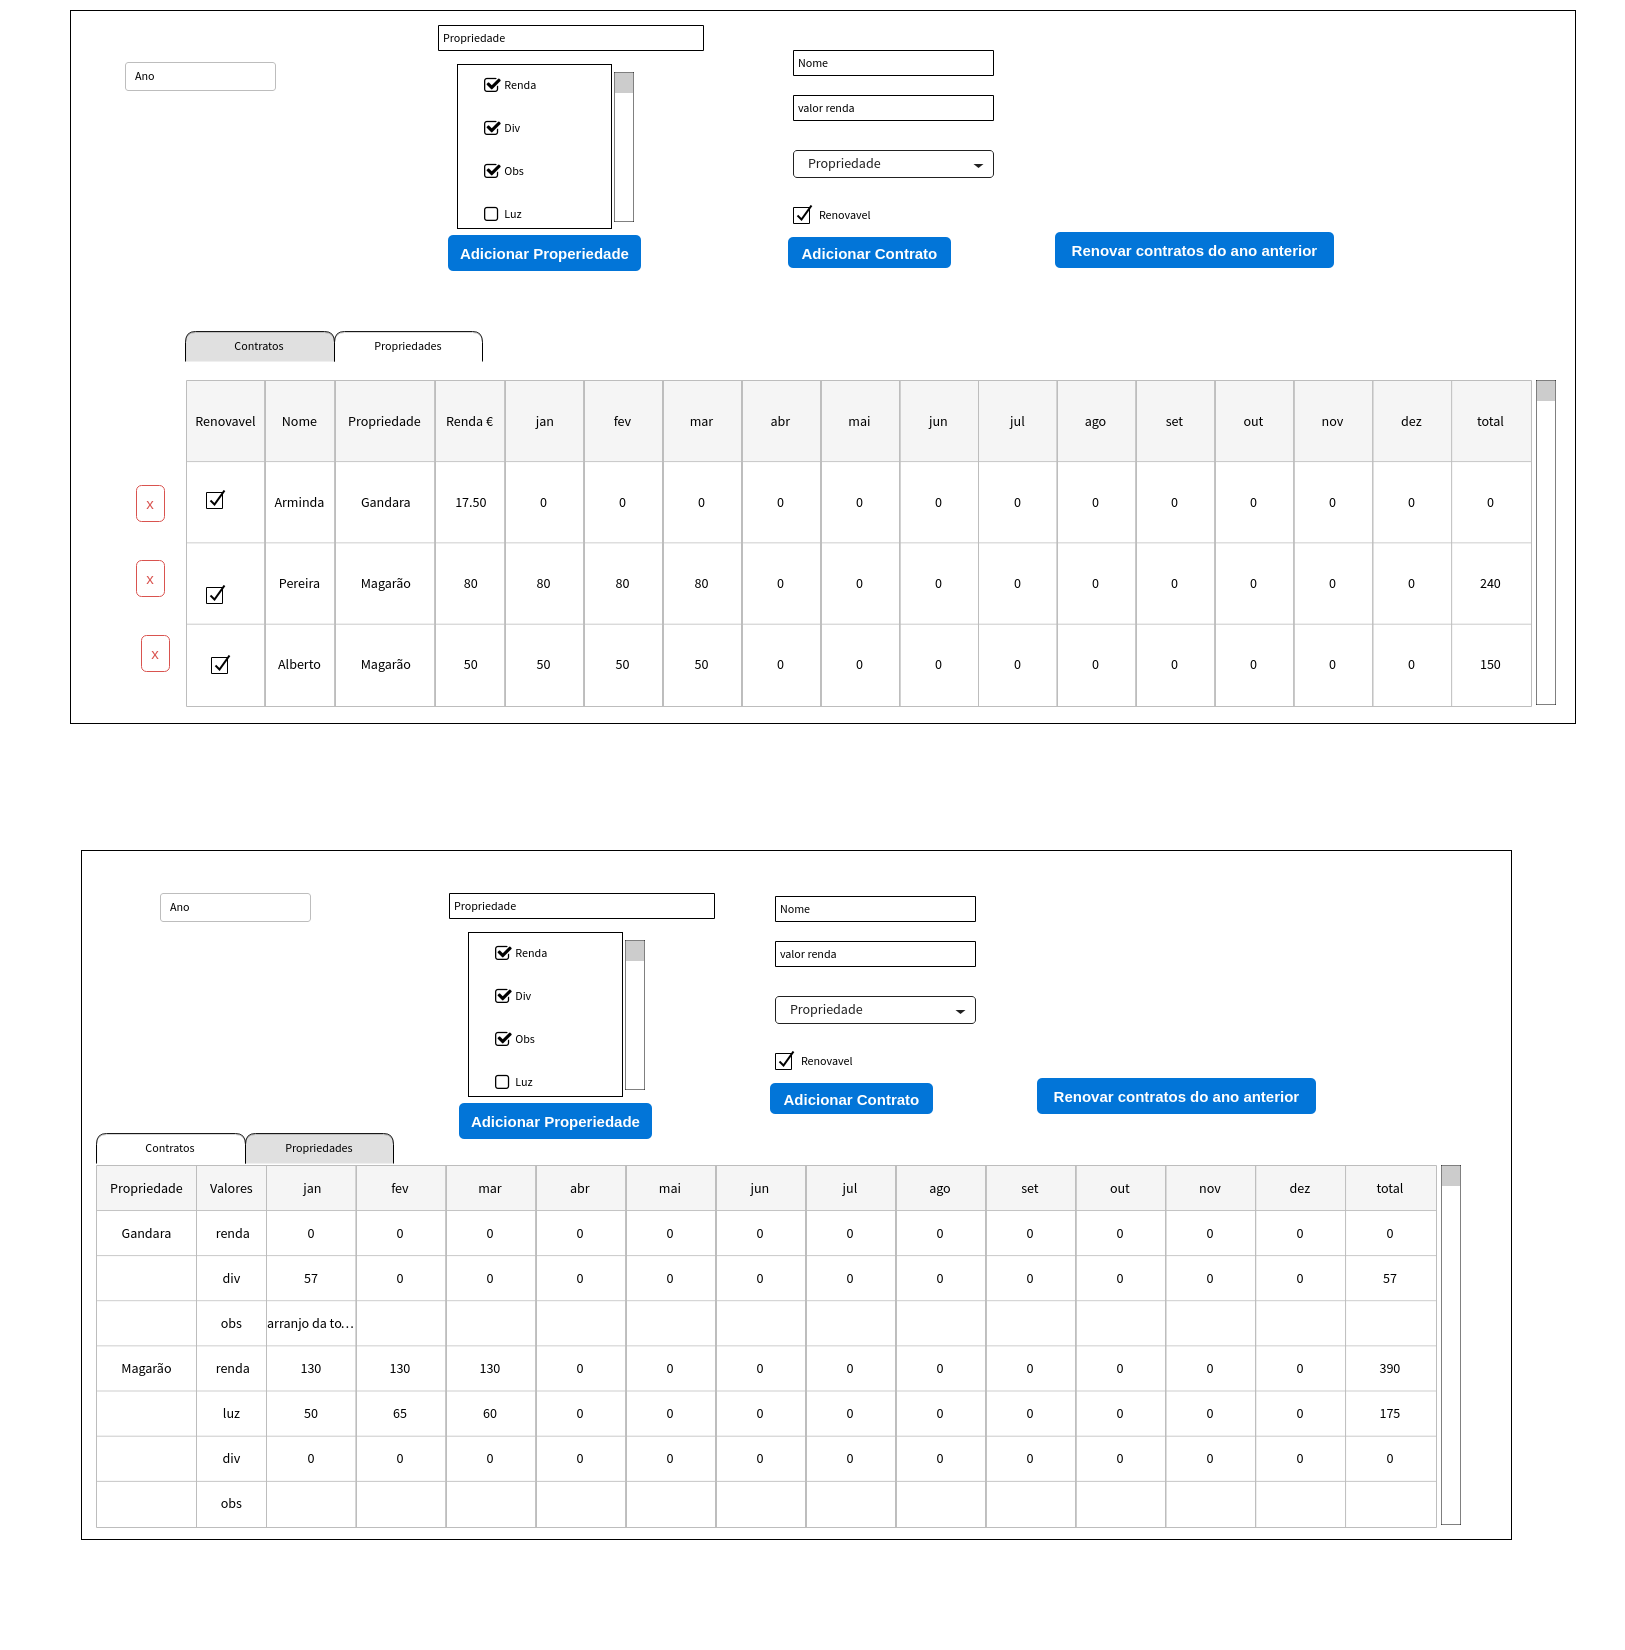
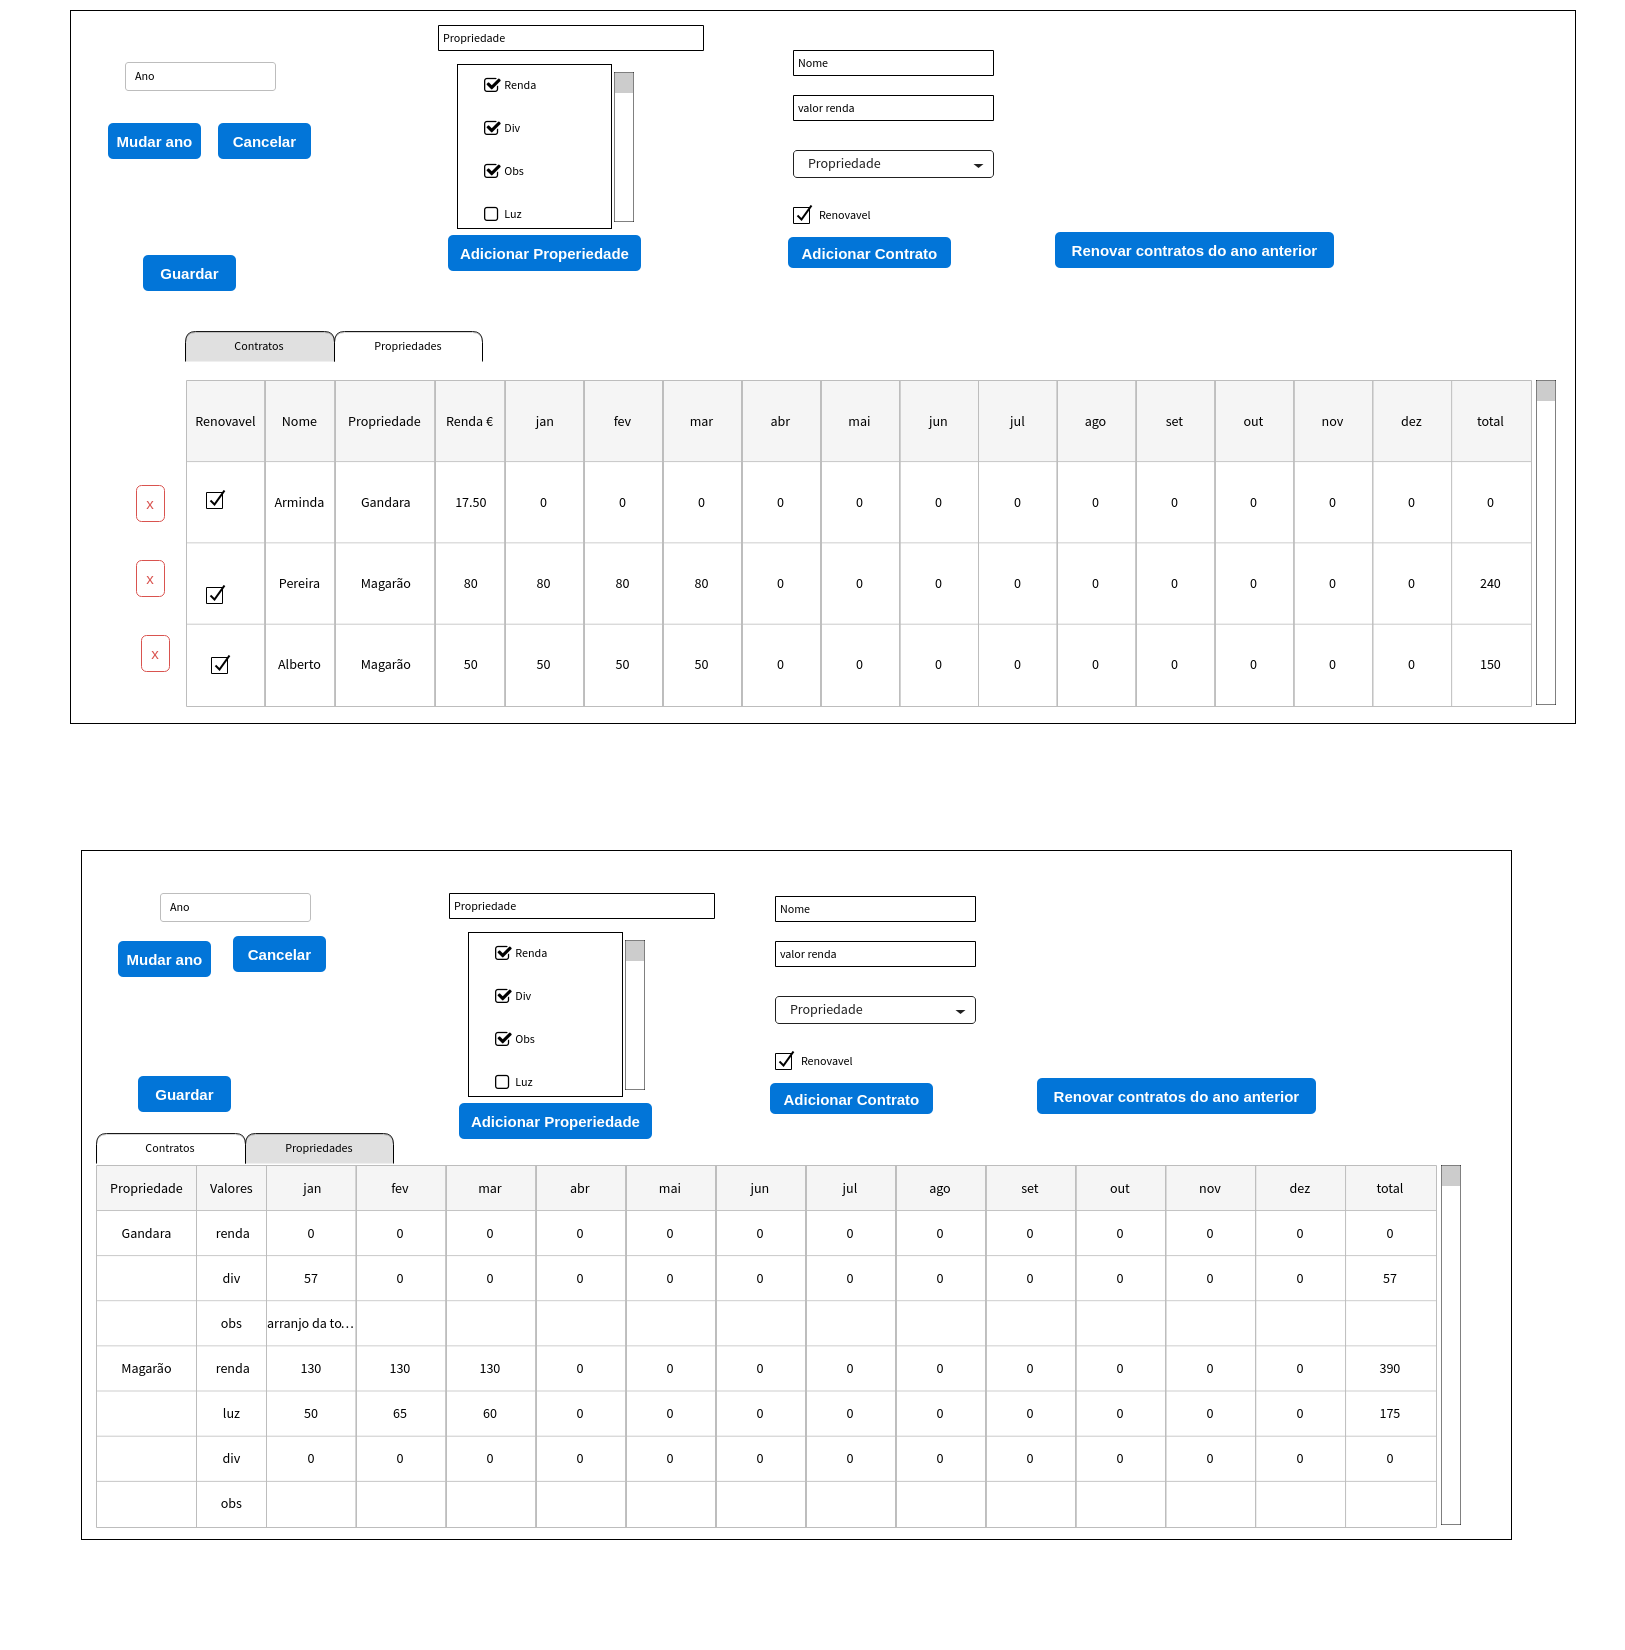
Design atualizado

diff --git a/docs/HOME.md b/docs/HOME.md
@@ -6,17 +6,19 @@
 
 ![design](Design.png)
 
-Na primeira janela, temos um `counter com o ano`, sempre que muda o ano ele vai buscar a info desse ano e atualiza o estado das tabelas.
+Na primeira janela, temos um `counter com o ano`, sempre que muda o ano ele vai buscar a info desse ano e atualiza o estado das tabelas. A informação não guardada é guardada automaticamente.
 
-Em `Adicionar Propriedade`, dá-se um nome à propriedade nova, escolhe-se os parâmetros e ao clickar no botão, é adicionada à base de dados uma propriedade nova. O estado da tabela é atualizado com a nova propriedade.
+Em `Adicionar Propriedade`, dá-se um nome à propriedade nova, escolhe-se os parâmetros e ao clickar no botão, o estado da tabela é atualizado com a nova propriedade.
 
-Em `Adicionar Contrato`, dá-se o nome do inquilino, o valor de renda acordado e escolhe-se a propriedade entre as propriedades existentes na base de dados. Tem uma caixa que indica se o contrato é renovável ou não. Ao clickar no botão o contrato é registado na base de dados e o estado da tabela é atualizado.
+Em `Adicionar Contrato`, dá-se o nome do inquilino, o valor de renda acordado e escolhe-se a propriedade entre as propriedades existentes na base de dados. Tem uma caixa que indica se o contrato é renovável ou não. Ao clickar no botão o estado da tabela é atualizado.
 
 O botão `Renovar contratos do ano anterior` pega no ano a ser visualizado no momento, vai ao ano anterior na base de dados e vê quais são os contratos marcados como renovaveis e cria novos contratos para o ano escolhido. Em seguida atualiza o estado da tabela com estes novos dados.
 
-Temos um `Tab` para alternar entre tabelas. A tabela escolhida fica gravada no estado para efeitos de render.
+Temos um `Tab` para alternar entre tabelas.
 
 Na `tabela de contratos` temos em cada linha um contrato. Os valores base nome, propriedade e renda não são alteráveis. Os valores para cada mês são alteráveis, e sempre que mudam o estado da tabela é atualizado e os valores são guardados na base de dados. Há um botão de eliminar que apaga o contrato da base de dados e atualiza o estado da tabela.
 Também há um checkbox para dar toggle on/off ao renovável.
 
 Na `tabela de propriedades` cada entrada tem a propriedade com os vários parâmetros. A `renda` é calculado com base nos valores da tabela de contratos e não leva input. O resto dos parâmetros têm de ser introduzidos e sempre que um deles muda o estado da tabela é atualizado e os valores são guardados na base de dados. O `obs` serve para dar uma descrição aos valores de `div`.
+
+O botão de `Guardar` serve para guardar na base de dados quaisquer alterações.
